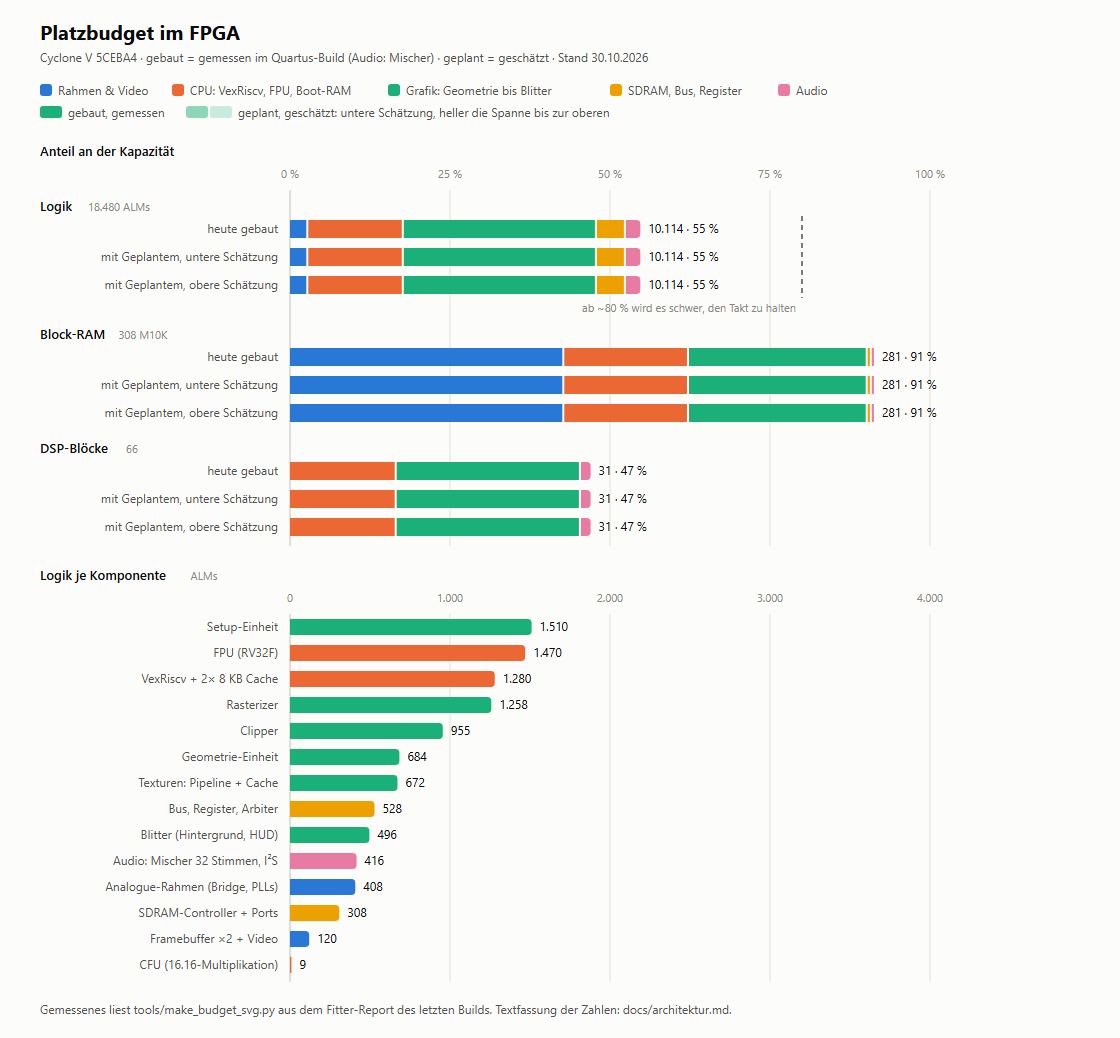
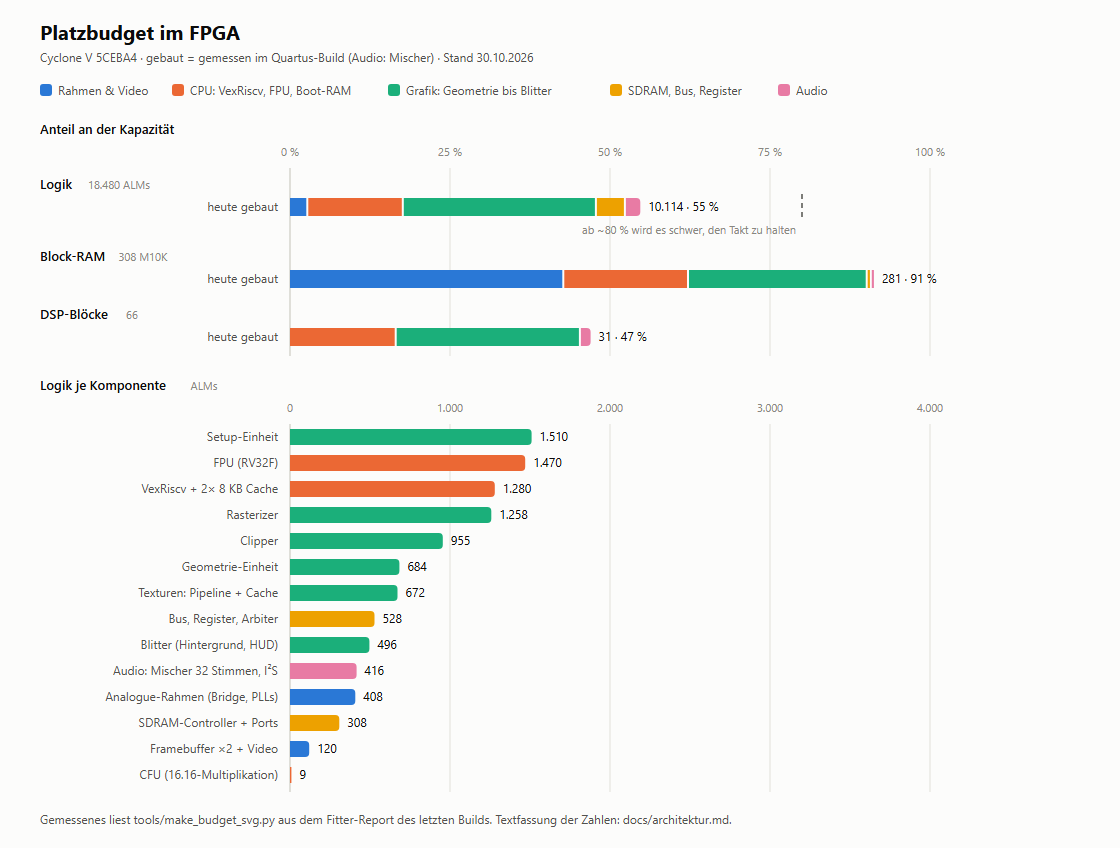
Budget picture: no estimate rows while nothing is planned
make_budget_svg.py draws the planned rows, their legend and the table's
planned total only when PLANNED has entries; now only what is built.

diff --git a/tools/make_budget_svg.py b/tools/make_budget_svg.py
@@ -192,23 +192,25 @@ def main():
                  0 if measured_only else sum(c[i][which] for c in comps if c[1] == key and not c[2]))
                 for key, *_ in GROUPS]
 
-    # title and legend
+    # title and legend (the planned part only while something is planned)
+    planned = bool(PLANNED)
     svg.text(40, 40, "Platzbudget im FPGA", "h")
-    svg.text(40, 62, f"Cyclone V 5CEBA4 · gebaut = gemessen im Quartus-Build ({BUILD}) · geplant = geschätzt · "
-                     f"Stand {STAND}", "s")
+    svg.text(40, 62, f"Cyclone V 5CEBA4 · gebaut = gemessen im Quartus-Build ({BUILD})"
+                     f"{' · geplant = geschätzt' if planned else ''} · Stand {STAND}", "s")
     lx = 40
     for key, label, _, _ in GROUPS:
         svg.add(f'<rect x="{lx}" y="84" width="12" height="12" rx="3" class="f-{key}"/>')
         svg.text(lx + 18, 94.5, label, "s")
         lx += 18 + 6.0 * len(label) + 30
-    svg.add('<rect x="40" y="106" width="22" height="12" rx="3" class="f-gfx"/>')
-    svg.text(68, 116.5, "gebaut, gemessen", "s")
-    svg.add('<rect x="186" y="106" width="22" height="12" rx="3" class="f-gfx tint"/>')
-    svg.add('<rect x="210" y="106" width="22" height="12" rx="3" class="f-gfx tint2"/>')
-    svg.text(238, 116.5, "geplant, geschätzt: untere Schätzung, heller die Spanne bis zur oberen", "s")
+    if planned:
+        svg.add('<rect x="40" y="106" width="22" height="12" rx="3" class="f-gfx"/>')
+        svg.text(68, 116.5, "gebaut, gemessen", "s")
+        svg.add('<rect x="186" y="106" width="22" height="12" rx="3" class="f-gfx tint"/>')
+        svg.add('<rect x="210" y="106" width="22" height="12" rx="3" class="f-gfx tint2"/>')
+        svg.text(238, 116.5, "geplant, geschätzt: untere Schätzung, heller die Spanne bis zur oberen", "s")
 
     # section 1: share of the FPGA per resource
-    y = 156
+    y = 156 if planned else 134
     svg.text(40, y, "Anteil an der Kapazität", "t")
     y += 22
     for p in (0, 25, 50, 75, 100):
@@ -222,11 +224,11 @@ def main():
         svg.text(40 + 7.6 * len(name) + 10, y + 13, cap_label, "m")
         y += 22
         group_top = y
-        for row_label, values in (
-            ("heute gebaut", total(res, 0, measured_only=True)),
-            ("mit Geplantem, untere Schätzung", total(res, 0)),
-            ("mit Geplantem, obere Schätzung", total(res, 1)),
-        ):
+        rows = [("heute gebaut", total(res, 0, measured_only=True))]
+        if planned:
+            rows += [("mit Geplantem, untere Schätzung", total(res, 0)),
+                     ("mit Geplantem, obere Schätzung", total(res, 1))]
+        for row_label, values in rows:
             h = 18
             svg.text(X0 - 12, y + 13, row_label, "s", "end")
             end = stacked(svg, y, h, values, cap, row_label)
@@ -287,9 +289,13 @@ def main():
 
     a, m, d = span(3, CAPACITY["alm"]), span(4, CAPACITY["m10k"]), span(5, CAPACITY["dsp"])
     biggest = [c[0] for c in sorted(comps, key=lambda c: -c[3][1])[:3]]
-    aria = (f"Platzbudget im FPGA: Logik heute {a[0]} Prozent, mit Geplantem {a[1]} bis {a[2]} Prozent, "
-            f"{'über' if a[2] > 80 else 'unter'} der 80-Prozent-Grenze; Block-RAM heute {m[0]}, geplant {m[1]} bis {m[2]} Prozent; "
-            f"DSP heute {d[0]}, geplant {d[1]} bis {d[2]} Prozent. Größte Posten: {', '.join(biggest)}.")
+    if planned:
+        aria = (f"Platzbudget im FPGA: Logik heute {a[0]} Prozent, mit Geplantem {a[1]} bis {a[2]} Prozent, "
+                f"{'über' if a[2] > 80 else 'unter'} der 80-Prozent-Grenze; Block-RAM heute {m[0]}, geplant {m[1]} bis {m[2]} Prozent; "
+                f"DSP heute {d[0]}, geplant {d[1]} bis {d[2]} Prozent. Größte Posten: {', '.join(biggest)}.")
+    else:
+        aria = (f"Platzbudget im FPGA: Logik {a[0]} Prozent, {'über' if a[0] > 80 else 'unter'} der 80-Prozent-Grenze; "
+                f"Block-RAM {m[0]} Prozent; DSP {d[0]} Prozent. Größte Posten: {', '.join(biggest)}.")
 
     light = "\n".join(f"    --{k}: {lc};" for k, _, lc, _ in GROUPS)
     dark = "\n".join(f"      --{k}: {dc};" for k, _, _, dc in GROUPS)
@@ -367,12 +373,17 @@ def write_table(comps, md):
     rows += [f"| {c[0]} | {cell(c[3])} | {cell(c[4])} | {cell(c[5])} |" for c in comps if c[2]]
     rows.append("| **gebaut** | " + " | ".join(total_cell(3 + k, caps[k], True) for k in range(3)) + " |")
     rows += [f"| geplant: {c[0]} | {cell(c[3])} | {cell(c[4])} | {cell(c[5])} |" for c in comps if not c[2]]
-    rows.append("| **mit Geplantem** | " + " | ".join(total_cell(3 + k, caps[k], False) for k in range(3)) + " |")
+    if any(not c[2] for c in comps):
+        rows.append("| **mit Geplantem** | " + " | ".join(total_cell(3 + k, caps[k], False) for k in range(3)) + " |")
     pc = [(pct(totals(i, True)[0], caps[i - 3]), pct(totals(i, False)[0], caps[i - 3]),
            pct(totals(i, False)[1], caps[i - 3])) for i in (3, 4, 5)]
     r = lambda p: f"{p[1]} %" if p[1] == p[2] else f"{p[1]}–{p[2]} %"
-    alt = (f"![Platzbudget im FPGA: Logik heute {pc[0][0]} %, mit Geplantem {r(pc[0])}; Block-RAM heute "
-           f"{pc[1][0]} %, mit Geplantem {r(pc[1])}; DSP heute {pc[2][0]} %, mit Geplantem {r(pc[2])}](ressourcen.svg)")
+    if any(not c[2] for c in comps):
+        alt = (f"![Platzbudget im FPGA: Logik heute {pc[0][0]} %, mit Geplantem {r(pc[0])}; Block-RAM heute "
+               f"{pc[1][0]} %, mit Geplantem {r(pc[1])}; DSP heute {pc[2][0]} %, mit Geplantem {r(pc[2])}](ressourcen.svg)")
+    else:
+        alt = (f"![Platzbudget im FPGA: Logik {pc[0][0]} %, Block-RAM {pc[1][0]} %, DSP {pc[2][0]} %]"
+               f"(ressourcen.svg)")
     lines = open(md, encoding="utf-8").read().split("\n")
     start = next(i for i, l in enumerate(lines) if l.startswith("| Komponente | ALMs |"))
     end = start

diff --git a/docs/architektur.md b/docs/architektur.md
@@ -118,7 +118,7 @@ Block-RAM spart er 190 ALMs, kostet aber 19 M10K, die knappere Ressource). Setup
 3.041 → 1.512, Geometrie-Einheit 2.288 → 648, Rasterizer mit Texturen 2.539 → 1.895 ALMs; dafür
 11 M10K mehr und 5 DSP weniger. Geschätzt ist nur, was noch fehlt.
 
-![Platzbudget im FPGA: Logik heute 55 %, mit Geplantem 55 %; Block-RAM heute 91 %, mit Geplantem 91 %; DSP heute 47 %, mit Geplantem 47 %](ressourcen.svg)
+![Platzbudget im FPGA: Logik 55 %, Block-RAM 91 %, DSP 47 %](ressourcen.svg)
 
 Die Grafik erzeugt `tools/make_budget_svg.py`: die gemessenen Zeilen aus dem Fitter-Report
 (`core/src/fpga/output_files/ap_core.fit.rpt`, Tabelle „Resource Utilization by Entity“), die
@@ -143,7 +143,6 @@ diese Tabelle.
 | Audio: Mischer 32 Stimmen, I²S | 416 | 1 | 1 |
 | Bus, Register, Arbiter | 528 | – | – |
 | **gebaut** | **10.114 (55 %)** | **281 (91 %)** | **31 (47 %)** |
-| **mit Geplantem** | **10.114 (55 %)** | **281 (91 %)** | **31 (47 %)** |
 
 Knapp wird die Logik: ab etwa 80 % Belegung wird es auf dem Cyclone V schwer, die
 Taktfrequenz zu halten. Das zeigt sich beim Bauen (Timing-Analyse, `tools/build.sh` meldet es
